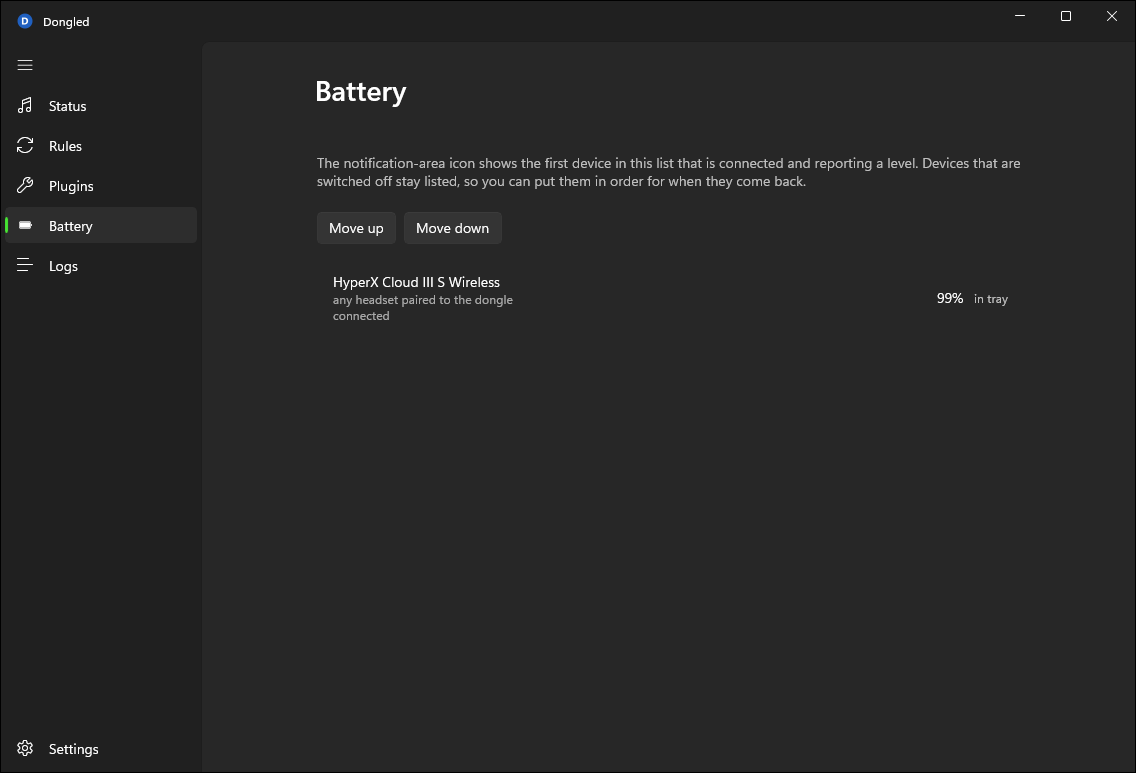
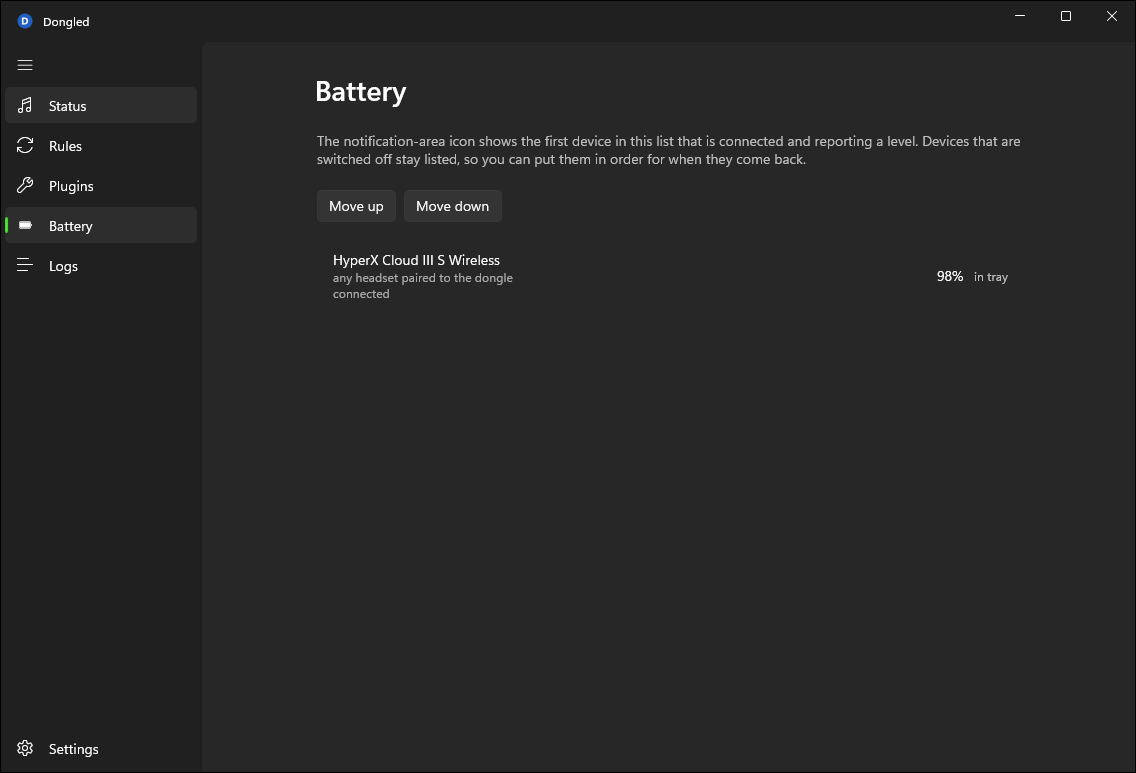
fix(app): remove the empty gap left by closed info bars
A closed InfoBar has no height but still takes part in its StackPanel's
spacing, so every page with one or more hidden bars showed an empty band
under its title. Each bar's visibility now follows the same property as
IsOpen. The README screenshots are retaken without the gap.

Changed region(s): [[0.2773, 0.1552, 0.8935, 0.4347], [0.8319, 0.3415, 0.8935, 0.4036]]

diff --git a/src/Dongled.App/Pages/PluginsPage.xaml b/src/Dongled.App/Pages/PluginsPage.xaml
@@ -37,11 +37,13 @@
         <StackPanel Grid.Row="1" Spacing="8">
             <InfoBar
                 IsOpen="{x:Bind ViewModel.HasProblem, Mode=OneWay}"
+                Visibility="{x:Bind ViewModel.HasProblem, Mode=OneWay}"
                 IsClosable="False"
                 Severity="Error"
                 Message="{x:Bind ViewModel.Problem, Mode=OneWay}" />
             <InfoBar
                 IsOpen="{x:Bind ViewModel.HasNotice, Mode=OneWay}"
+                Visibility="{x:Bind ViewModel.HasNotice, Mode=OneWay}"
                 IsClosable="True"
                 Severity="Informational"
                 Message="{x:Bind ViewModel.Notice, Mode=OneWay}" />
@@ -53,6 +55,7 @@
             -->
             <InfoBar
                 IsOpen="{x:Bind ViewModel.NeedsRestart, Mode=OneWay}"
+                Visibility="{x:Bind ViewModel.NeedsRestart, Mode=OneWay}"
                 IsClosable="False"
                 Severity="Informational"
                 Title="Restart to apply"

diff --git a/src/Dongled.App/Pages/RulesPage.xaml b/src/Dongled.App/Pages/RulesPage.xaml
@@ -26,6 +26,7 @@
         <StackPanel Grid.Row="1" Grid.Column="0" Grid.ColumnSpan="2" Spacing="8">
             <InfoBar
                 IsOpen="{x:Bind ViewModel.HasProblem, Mode=OneWay}"
+                Visibility="{x:Bind ViewModel.HasProblem, Mode=OneWay}"
                 IsClosable="False"
                 Severity="Error"
                 Message="{x:Bind ViewModel.Problem, Mode=OneWay}" />
@@ -93,6 +94,7 @@
 
                 <InfoBar
                     IsOpen="{x:Bind ViewModel.HasValidation, Mode=OneWay}"
+                    Visibility="{x:Bind ViewModel.HasValidation, Mode=OneWay}"
                     IsClosable="False"
                     Severity="Warning"
                     Message="{x:Bind ViewModel.Validation, Mode=OneWay}" />

diff --git a/src/Dongled.App/Pages/LogsPage.xaml b/src/Dongled.App/Pages/LogsPage.xaml
@@ -18,11 +18,13 @@
         <StackPanel Grid.Row="1" Spacing="8">
             <InfoBar
                 IsOpen="{x:Bind ViewModel.HasProblem, Mode=OneWay}"
+                Visibility="{x:Bind ViewModel.HasProblem, Mode=OneWay}"
                 IsClosable="False"
                 Severity="Error"
                 Message="{x:Bind ViewModel.Problem, Mode=OneWay}" />
             <InfoBar
                 IsOpen="{x:Bind ViewModel.HasNotice, Mode=OneWay}"
+                Visibility="{x:Bind ViewModel.HasNotice, Mode=OneWay}"
                 IsClosable="True"
                 Severity="Success"
                 Message="{x:Bind ViewModel.Notice, Mode=OneWay}" />

diff --git a/src/Dongled.App/Pages/StatusPage.xaml b/src/Dongled.App/Pages/StatusPage.xaml
@@ -16,6 +16,7 @@
 
             <InfoBar
                 IsOpen="{x:Bind ViewModel.IsUpdateBannerOpen, Mode=OneWay}"
+                Visibility="{x:Bind ViewModel.IsUpdateBannerOpen, Mode=OneWay}"
                 IsClosable="True"
                 CloseButtonClick="OnUpdateBannerCloseClick"
                 Severity="Informational"
@@ -34,6 +35,7 @@
 
             <InfoBar
                 IsOpen="{x:Bind ViewModel.HasProblem, Mode=OneWay}"
+                Visibility="{x:Bind ViewModel.HasProblem, Mode=OneWay}"
                 IsClosable="False"
                 Severity="Error"
                 Message="{x:Bind ViewModel.Problem, Mode=OneWay}" />

diff --git a/src/Dongled.App/Pages/SettingsPage.xaml b/src/Dongled.App/Pages/SettingsPage.xaml
@@ -16,6 +16,7 @@
 
             <InfoBar
                 IsOpen="{x:Bind vm:SettingsViewModel.IsRedirected}"
+                Visibility="{x:Bind vm:SettingsViewModel.IsRedirected}"
                 IsClosable="False"
                 Severity="Warning"
                 Title="Files are redirected"
@@ -23,6 +24,7 @@
 
             <InfoBar
                 IsOpen="{x:Bind ViewModel.HasProblem, Mode=OneWay}"
+                Visibility="{x:Bind ViewModel.HasProblem, Mode=OneWay}"
                 IsClosable="False"
                 Severity="Error"
                 Message="{x:Bind ViewModel.Problem, Mode=OneWay}" />

diff --git a/src/Dongled.App/Pages/BatteryPage.xaml b/src/Dongled.App/Pages/BatteryPage.xaml
@@ -12,6 +12,7 @@
 
             <InfoBar
                 IsOpen="{x:Bind ViewModel.HasProblem, Mode=OneWay}"
+                Visibility="{x:Bind ViewModel.HasProblem, Mode=OneWay}"
                 IsClosable="False"
                 Severity="Error"
                 Message="{x:Bind ViewModel.Problem, Mode=OneWay}" />
